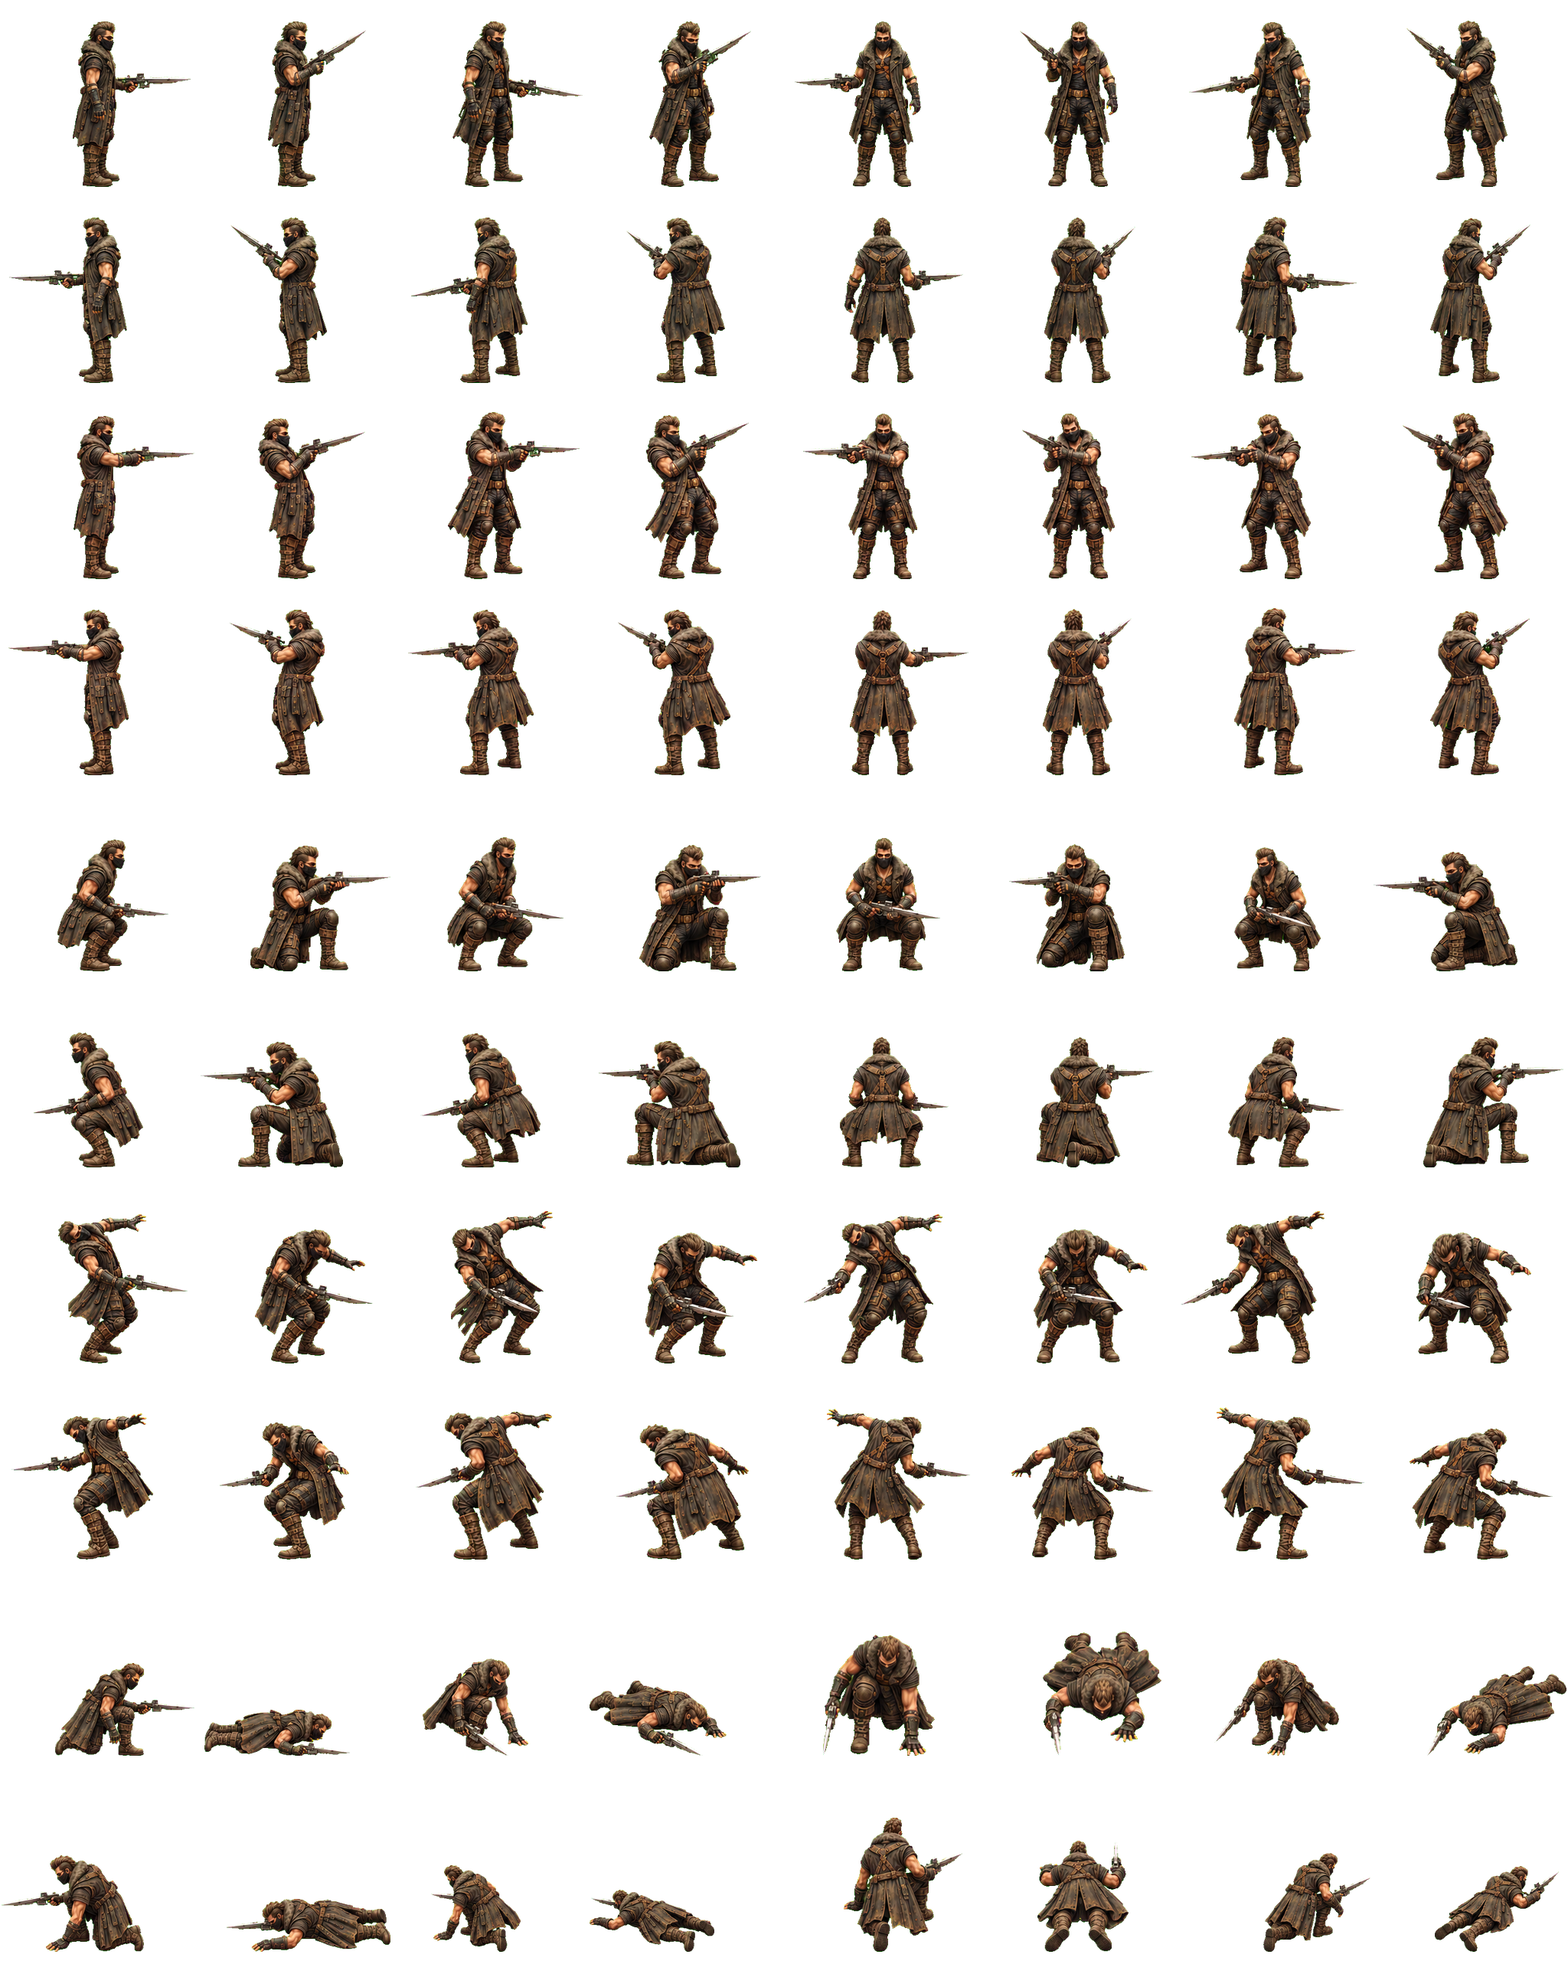
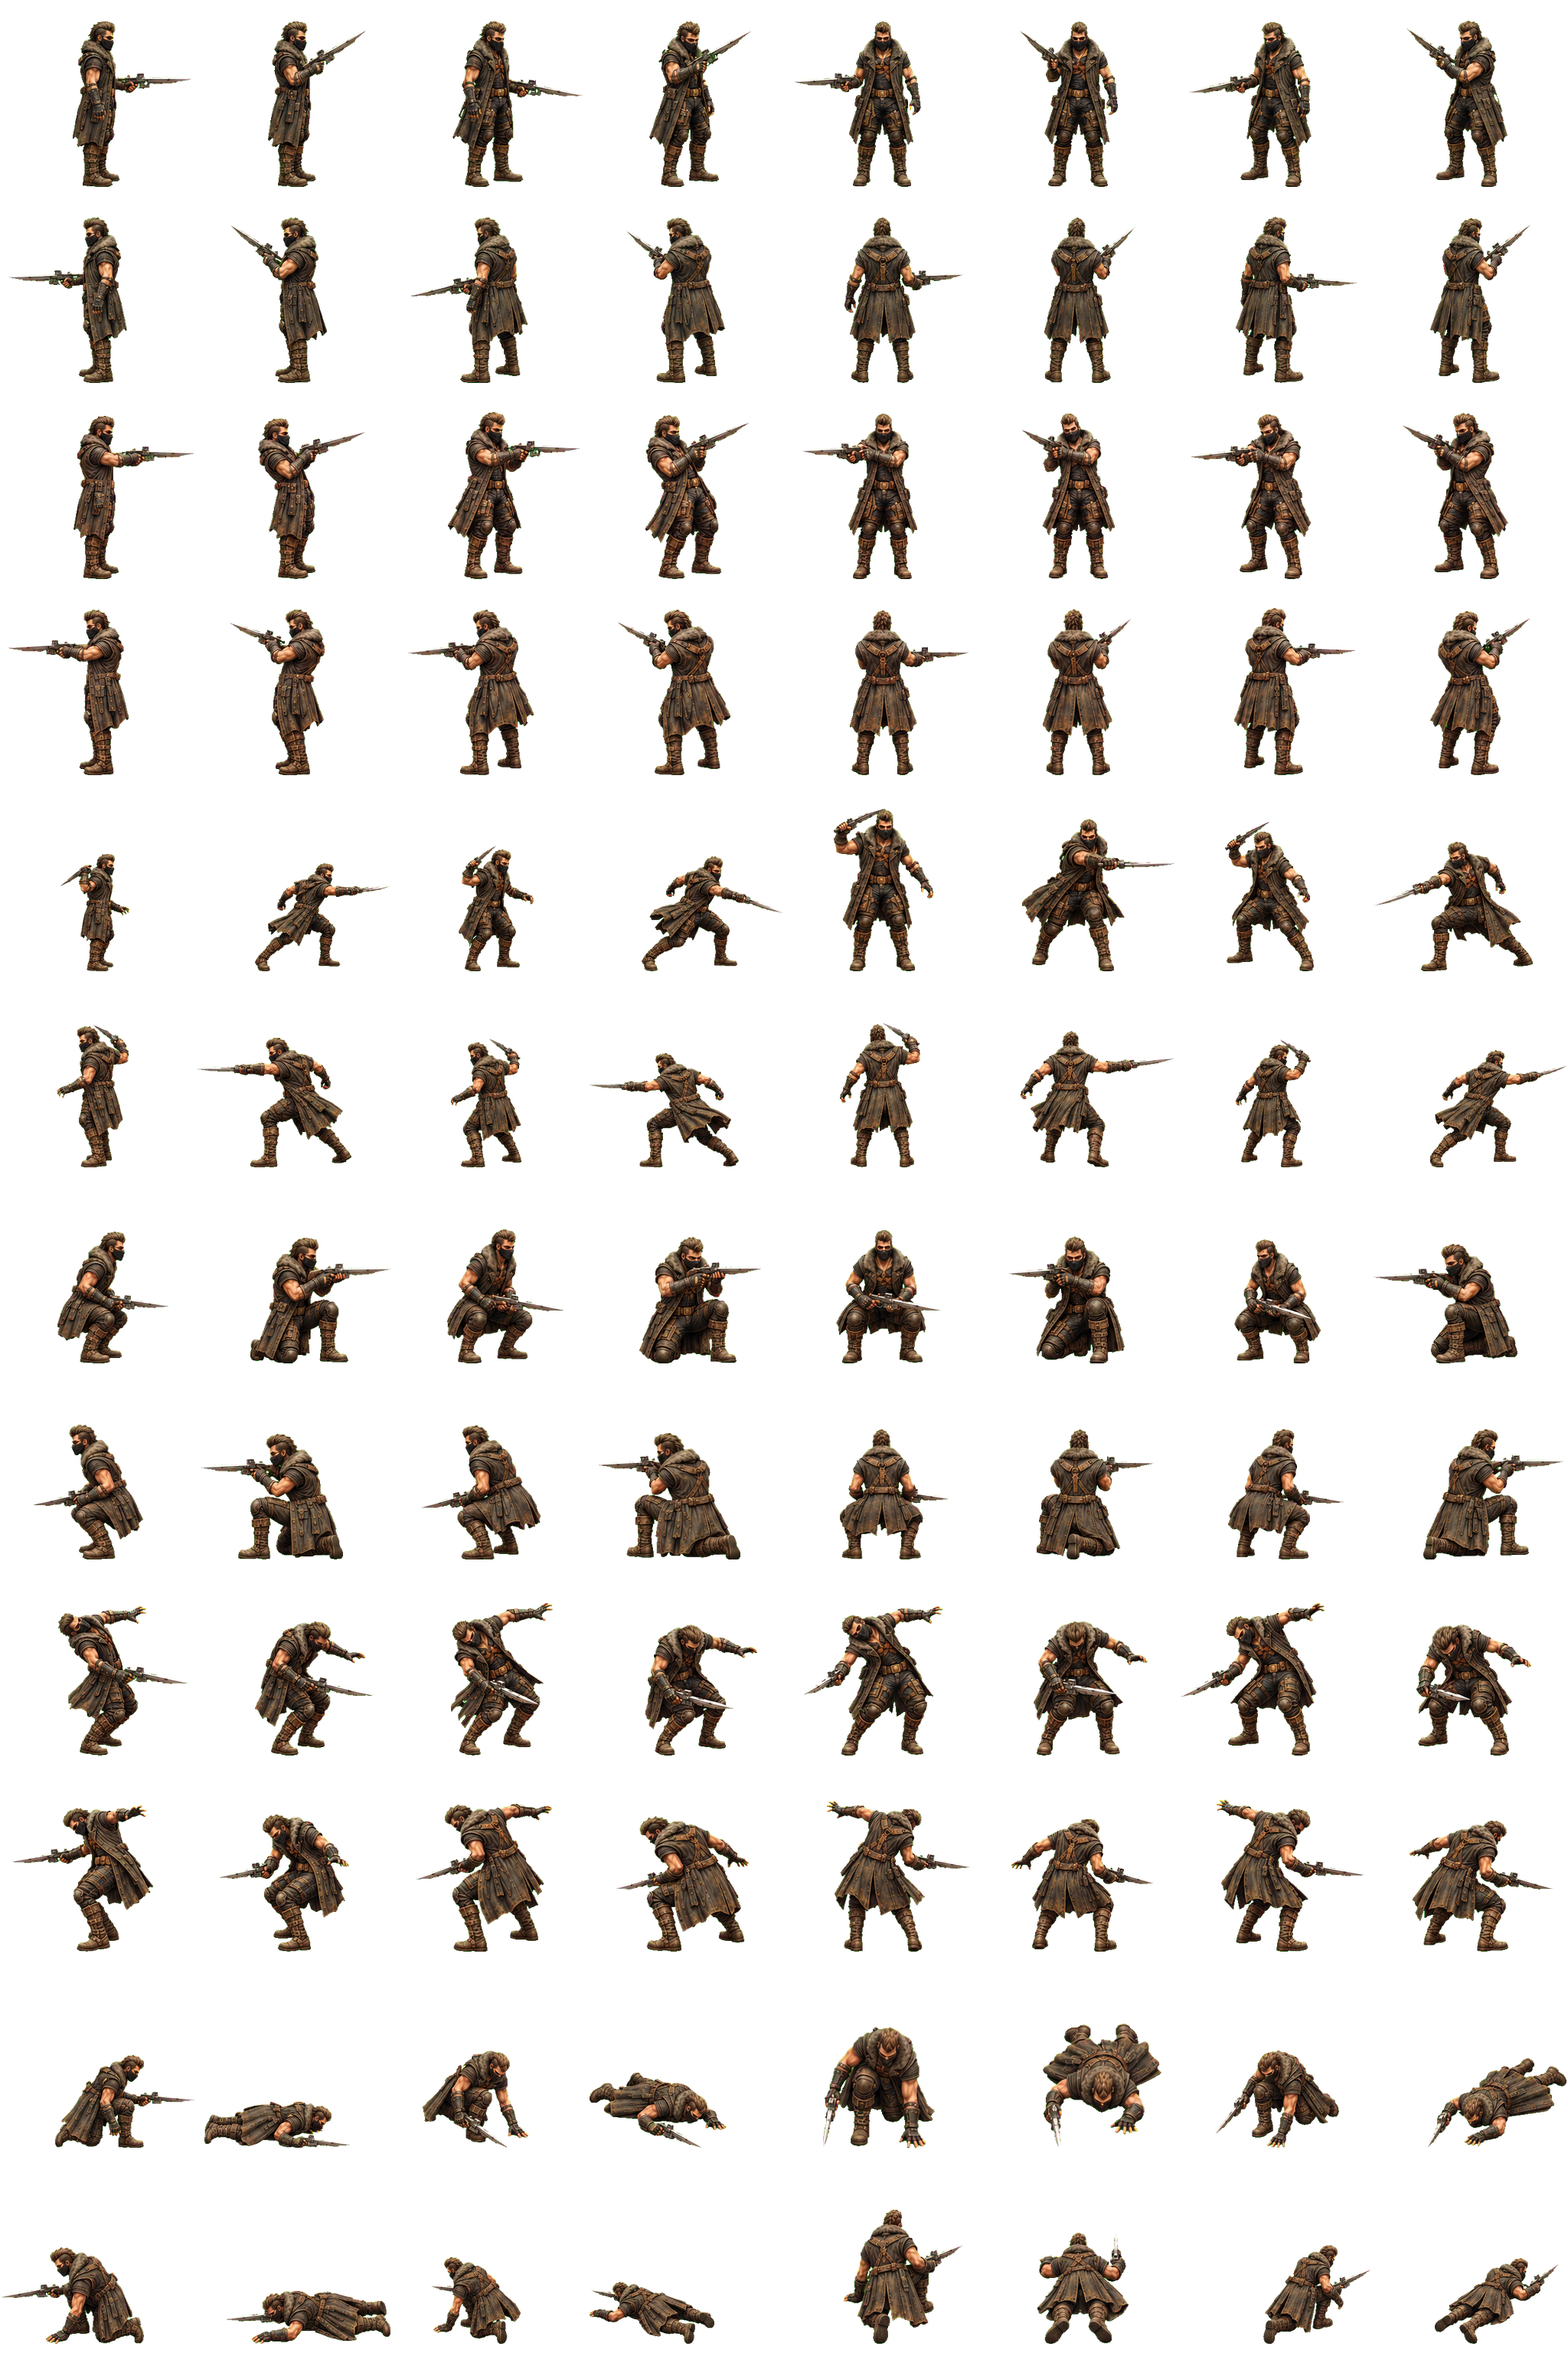
Animate raider grunt melee in eight directions

diff --git a/docs/CODEX_PROGRESS.md b/docs/CODEX_PROGRESS.md
@@ -535,3 +535,5 @@ Le nombre de tâches DONE et les critères ouverts sont calculés dans [le bilan
 - Raider grunt IN_PROGRESS. Fire adds 16 distinct aiming and recoil poses across eight facings. The native Safehouse test triggered fire through the enemy attack path and selected all 16 regions. The 1080p capture was reviewed. Move, melee and death remain open. 63 / 233 complete.
 
 - Raider grunt IN_PROGRESS. Death adds 16 collapse and prone poses over eight facings. Targeted native Safehouse test verified all 16 regions at zero HP without a cast shadow; 1080p capture reviewed. Move and melee remain open. 63 / 233 complete.
+
+- Raider grunt IN_PROGRESS. Melee adds 16 distinct wind-up and follow-through poses across eight facings. Targeted native Safehouse fixture selected all 16 regions; 1080p capture reviewed. The test drives the clip directly, while the current grunt AI still uses ranged attacks. Only move is missing from this atlas. 63 / 233 complete.
